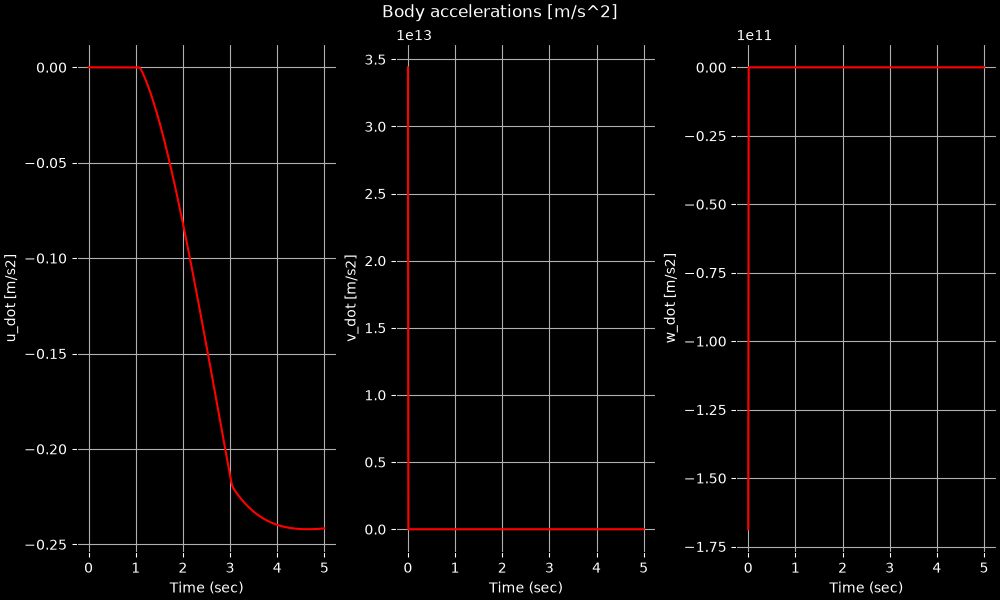
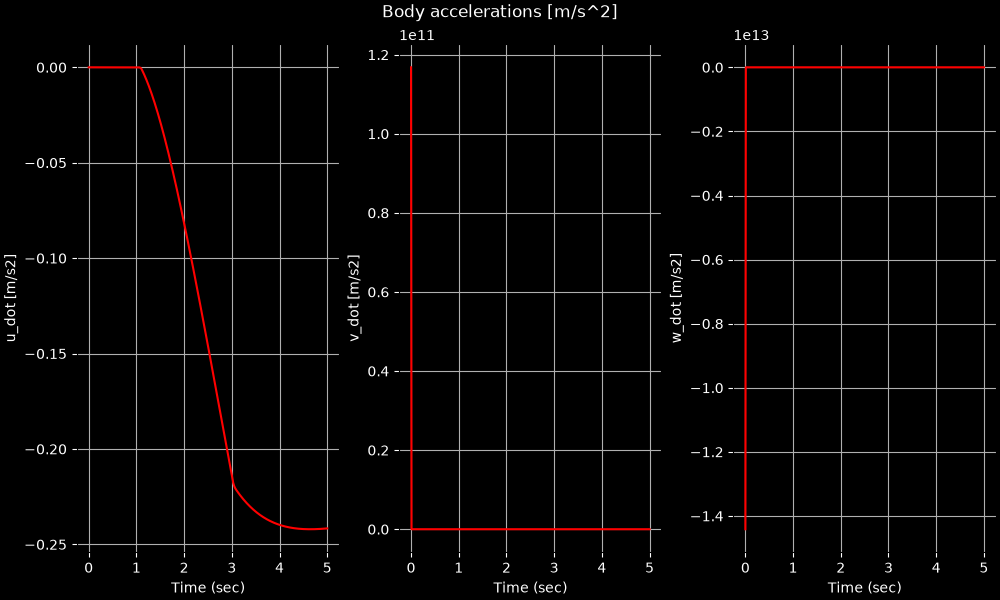
Tested openloop response for all 3 attitudes

diff --git a/Aerospace/6DOF/main.py b/Aerospace/6DOF/main.py
@@ -87,17 +87,17 @@ def main():
 
     # Set time conditions
     t0_s = 0.0
-    tf_s = 5.0
+    tf_s = 10.
     h_s  = 0.01
     t_s = np.arange(t0_s, tf_s + h_s, h_s)
     nt_s = t_s.size
 
     # Timeseries ctrl input
     time_data = np.array([0., 1., 1.1, 3., 3.1, 5., 5.1, 8., 8.1, 10.])
-    u1_ctrl_ip_perturb = np.array([0., 0., delta, delta, 0., 0., delta, delta, 0., 0.])
-    u2_ctrl_ip_perturb = np.array([0., 0., -delta, -delta, 0., 0., -delta, -delta, 0., 0.])
-    u3_ctrl_ip_perturb = np.array([0., 0., -delta, -delta, 0., 0., -delta, -delta, 0., 0.])
-    u4_ctrl_ip_perturb = np.array([0., 0., delta, delta, 0., 0., delta, delta, 0., 0.])
+    u1_ctrl_ip_perturb = np.array([0., 0., -delta, -delta, 0., 0., delta, delta, 0., 0.])
+    u2_ctrl_ip_perturb = np.array([0., 0., delta, delta, 0., 0., -delta, -delta, 0., 0.])
+    u3_ctrl_ip_perturb = np.array([0., 0., -delta, -delta, 0., 0., delta, delta, 0., 0.])
+    u4_ctrl_ip_perturb = np.array([0., 0., delta, delta, 0., 0., -delta, -delta, 0., 0.])
 
     u = np.zeros((4, nt_s))
     for i,t in enumerate(t_s):
@@ -167,8 +167,8 @@ def main():
     # Part3: Plot Data
     # ##########################################################
 
-    simulation_test = 'quad_test_trim_perturb_pitch_doublet'
-    test_count = 3
+    simulation_test = 'quad_test_trim_perturb_yaw'
+    test_count = 1
 
     # Subplots
     fig, axes = plt.subplots(2, 4, figsize=(10,6), layout="constrained")
@@ -231,10 +231,10 @@ def main():
     axes[1,2].set_facecolor('black')
     axes[1,2].tick_params(colors='white')
 
-    # pitch, theta
-    axes[1,3].plot(t_s, x[7,:], label='theta', color='red')
+    # yaw, psi
+    axes[1,3].plot(t_s, x[8,:], label='psi', color='red')
     axes[1,3].set_xlabel('Time (sec)', color='white')
-    axes[1,3].set_ylabel('theta [rad]', color='white')
+    axes[1,3].set_ylabel('psi [rad]', color='white')
     axes[1,3].grid(True)
     axes[1,3].set_facecolor('black')
     axes[1,3].tick_params(colors='white')
